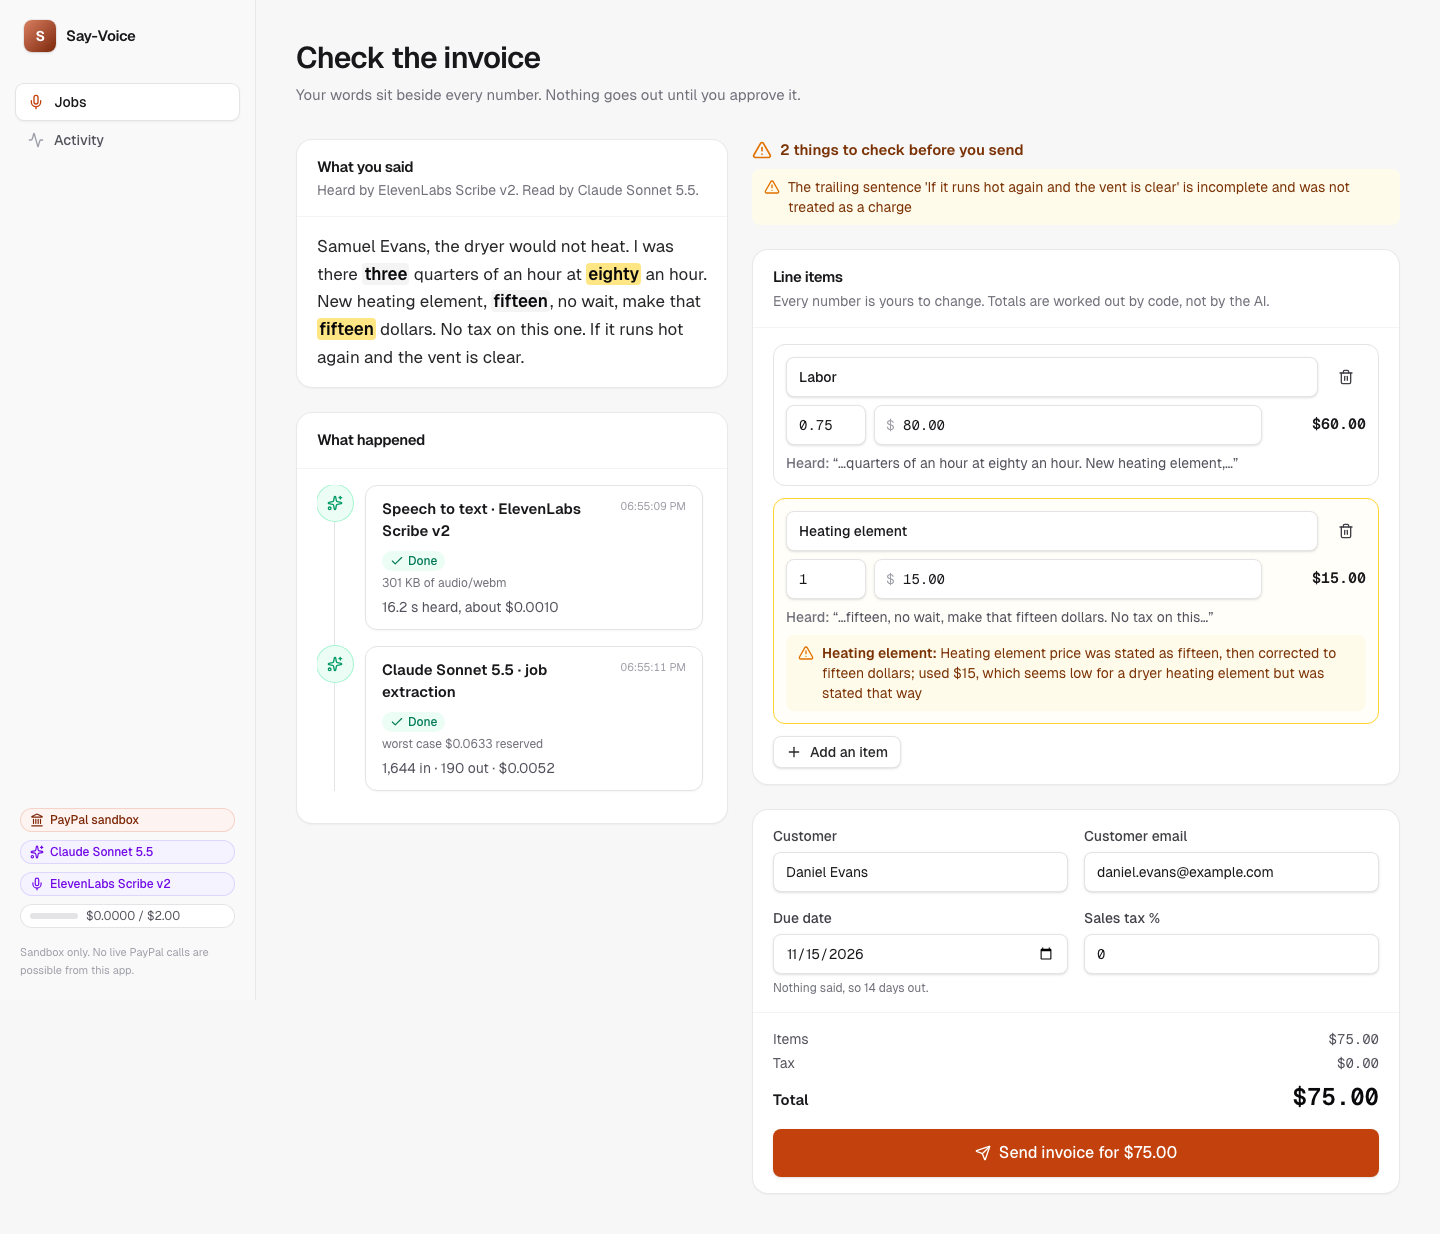
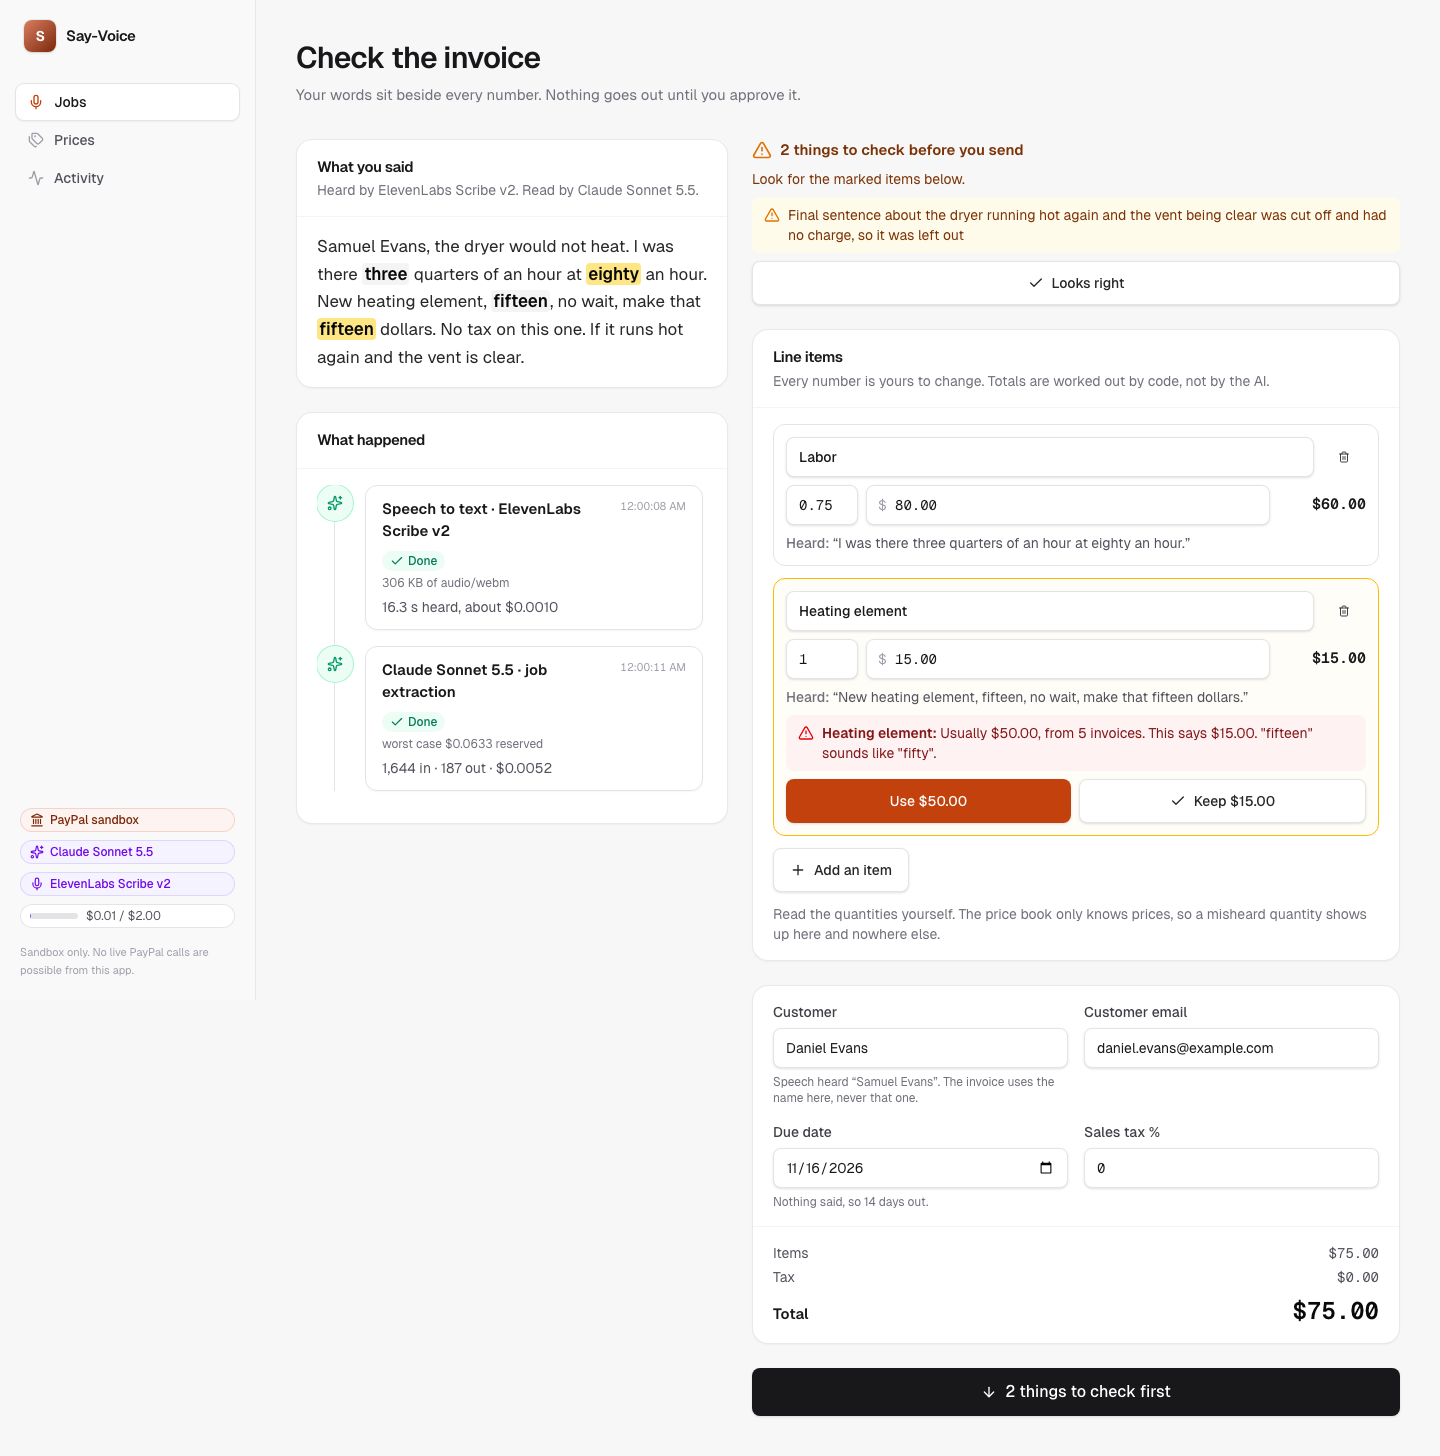
Leave the New job page ready after a job
Next keeps the page alive behind the job page, so it came back stuck on
the spinner, with the last customer still picked and a kept take hidden.

diff --git a/src/components/say/new-job.tsx b/src/components/say/new-job.tsx
@@ -1,6 +1,6 @@
 "use client";
 
-import { useEffect, useRef, useState } from "react";
+import { useEffect, useLayoutEffect, useRef, useState } from "react";
 import Link from "next/link";
 import { useRouter } from "next/navigation";
 import { Loader2, Sparkles, UserPlus } from "lucide-react";
@@ -65,6 +65,16 @@ export function NewJob() {
   const [take, setTake] = useState<Take | null>(null);
   const [problem, setProblem] = useState<TakeProblem | null>(null);
 
+  // Next keeps this page alive behind the job page, so a finished job has to leave it ready for the next one.
+  const onLeave = useRef<(() => void) | null>(null);
+  useLayoutEffect(
+    () => () => {
+      onLeave.current?.();
+      onLeave.current = null;
+    },
+    [],
+  );
+
   // A take that never became a job is still here after a reload or a trip to another page.
   useEffect(() => {
     let current = true;
@@ -116,6 +126,14 @@ export function NewJob() {
         json: { source: "mic", today: localDay(), customer: current.customer, transcript: speech.transcript, speech: { mocked: speech.mocked, model: speech.mocked ? "Speech mock" : (status?.speech.model ?? ""), durationSec: speech.durationSec } },
       });
       void clearTake();
+      onLeave.current = () => {
+        setPhase("ready");
+        setHeard(null);
+        setTake(null);
+        setPicked(null);
+        setTypedName("");
+        setTypedEmail("");
+      };
       router.push(`/jobs/${job.id}`);
     } catch (e) {
       setProblem(explainTake(refusalFrom(e)));
@@ -142,6 +160,7 @@ export function NewJob() {
     setPhase("reading");
     try {
       const job = await kitFetch<JobView>("/api/jobs", { json: { source: "sample", today: localDay() } });
+      onLeave.current = () => setPhase("ready");
       router.push(`/jobs/${job.id}`);
     } catch (e) {
       toast({ title: "The sample job didn't start", description: explainSample(refusalFrom(e)), variant: "error", durationMs: 7000 });

diff --git a/tests/e2e/take.spec.ts b/tests/e2e/take.spec.ts
@@ -101,6 +101,34 @@ test("a take with nothing in it asks for a new one", async ({ page }) => {
   await expect(page.getByTestId("record-start")).toBeEnabled();
 });
 
+// Next hides this page instead of closing it, so these two come back the way a person does.
+test("a take that became a job leaves a clean page for the next one", async ({ page }) => {
+  await recordTake(page);
+  await page.waitForURL(/\/jobs\/job_/, { timeout: 30_000 });
+  await page.goBack();
+  await expect(page.getByTestId("record-start")).toBeDisabled();
+  await expect(page.getByTestId("contact-tom-baker")).toHaveAttribute("aria-pressed", "false");
+  await expect(page.getByTestId("try-sample")).toBeEnabled();
+  await expect(page.getByTestId("kept-take")).toHaveCount(0);
+  await expect(page.getByTestId("job-row")).toHaveCount(1);
+});
+
+test("a kept take is still there after a look at the sample job", async ({ page }) => {
+  await refuse(page, "**/api/speech", 402, "speech_credit", "Speech to text has run out of credit.");
+  await recordTake(page);
+  await expectKept(page, "Speech to text is out of credit");
+
+  await page.getByTestId("try-sample").click();
+  await page.waitForURL(/\/jobs\/job_/, { timeout: 30_000 });
+  await page.goBack();
+  await expectKept(page, "Speech to text is out of credit");
+
+  await page.unroute("**/api/speech");
+  await page.getByTestId("retry-take").click();
+  await page.waitForURL(/\/jobs\/job_/, { timeout: 30_000 });
+  await expect(page.getByTestId("customer-name")).toHaveValue("Tom Baker");
+});
+
 test("someone's real email is refused by the Guard, with what to do about it", async ({ page, request }, info) => {
   await page.getByTestId("contact-other").click();
   await page.locator("#typed-name").fill("Jo Judge");

diff --git a/tests/e2e/shared-site.spec.ts b/tests/e2e/shared-site.spec.ts
@@ -43,7 +43,8 @@ test("a second sent invoice shows up on the same visitor's list", async ({ page,
   test.skip((await kitStatus(request)).live, "Mock only: the live check spends on the one mic clip");
   await sentSample(page, request);
   await sentSample(page, request);
-  await page.goto("/jobs");
+  await page.getByTestId("next-job").click(); // no reload, so the list has to catch up by itself
   await expect(page.getByTestId("job-row")).toHaveCount(2);
+  await expect(page.getByTestId("try-sample")).toBeEnabled();
   await page.screenshot({ path: "screenshots/visitor-jobs.png", fullPage: true });
 });
